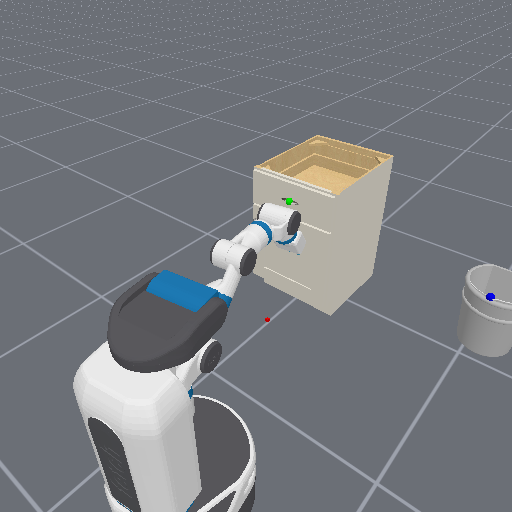
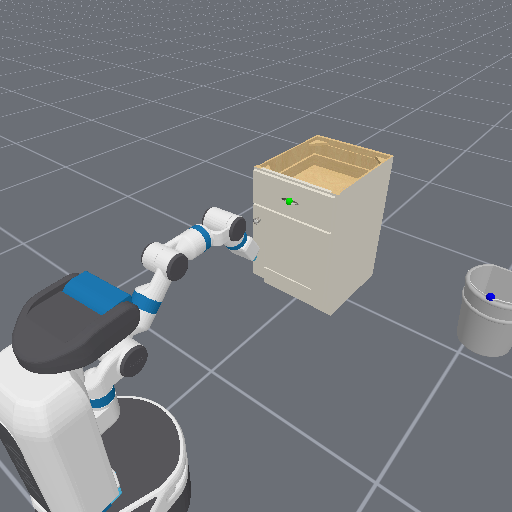
12.20

Changed region(s): [[0.0, 0.375, 0.5938, 1.0]]

diff --git a/mani_skill/envs/tasks/mobile_manipulation/final.py b/mani_skill/envs/tasks/mobile_manipulation/final.py
@@ -115,7 +115,8 @@ class FinalEnv(BaseEnv):
 
     @property
     def _default_human_render_camera_configs(self):
-        pose = sapien_utils.look_at(eye=[-2.2, -1.3, 2], target=[-0, 0.5, 0])
+        # pose = sapien_utils.look_at(eye=[-2.2, -1.3, 2], target=[-0, 0.5, 0])
+        pose = sapien_utils.look_at(eye=[0, 0, 2], target=[0, 0, 0])
         return CameraConfig(
             "render_camera", pose=pose, width=512, height=512, fov=1, near=0.01, far=100
         )
@@ -215,6 +216,8 @@ class FinalEnv(BaseEnv):
             initial_pose=sapien.Pose(p=[-0.5, 0, 0.015]),
         )
 
+        self.goal_z=torch.tensor([0.015]*self.num_envs, device=self.device)
+
         model_ids = self._batched_episode_rng.choice(self.all_cabinet_model_ids)
         link_ids = self._batched_episode_rng.randint(0, 2**31)
 
@@ -300,6 +303,12 @@ class FinalEnv(BaseEnv):
             self.cabinet_zs.append(-collision_mesh.bounding_box.bounds[0, 2])
         self.cabinet_zs = common.to_tensor(self.cabinet_zs, device=self.device)
 
+        self.cabinet_xyboxs = []
+        for cabinet in self._cabinets:
+            collision_mesh = cabinet.get_first_collision_mesh()
+            self.cabinet_xyboxs.append(collision_mesh.bounding_box.bounds[:,:2])
+        self.cabinet_xyboxs = common.to_tensor(self.cabinet_xyboxs, device=self.device)
+
         # get the qmin qmax values of the joint corresponding to the selected links
         target_qlimits = self.drawer_handle_link.joint.limits  # [b, 1, 2]
         qmin, qmax = target_qlimits[..., 0], target_qlimits[..., 1]
@@ -320,10 +329,20 @@ class FinalEnv(BaseEnv):
         with torch.device(self.device):
             b = len(env_idx)
             xy = torch.zeros((b, 3))
-            xy[:, 2] = self.cabinet_zs[env_idx]
+            xy[:, 2] = self.cabinet_zs[env_idx].clone()
             self.cabinet.set_pose(Pose.create_from_pq(p=xy))
-            xy[:,:3] = torch.tensor([0, -1.1, 0.4])
+            xy[:,:3] = torch.tensor([0, -1.1, 0.4]).clone()
             self.bucket.set_pose(Pose.create_from_pq(p=xy))
+
+            if self.gpu_sim_enabled:
+                self.scene._gpu_apply_all()
+                self.scene.px.gpu_update_articulation_kinematics()
+                self.scene.px.step()
+                self.scene._gpu_fetch_all()
+
+            xy = self.handle_link_positions(self.drawer_handle_link, self.drawer_handle_link_pos, env_idx)
+            xy[:, :2] = randomization.uniform(self.cabinet_xyboxs[env_idx, 0, :2], self.cabinet_xyboxs[env_idx, 1, :2], size=(b, 2))*0.5
+            self.cube.set_pose(Pose.create_from_pq(p=xy))
 
             # initialize robot
             if self.robot_uids == "fetch":
@@ -411,15 +430,54 @@ class FinalEnv(BaseEnv):
         link_is_static = (
             torch.linalg.norm(self.drawer_handle_link.angular_velocity, axis=1) <= 1
         ) & (torch.linalg.norm(self.drawer_handle_link.linear_velocity, axis=1) <= 0.1)
+
+        cube_grasped = self.agent.is_grasping(self.cube)
+
+        cube_in_bucket = False
+
+        # bucket_grasped = True
+
+        bucket_height = self.bucket.pose.p[:,2]
+
+        bucket_high_enough = bucket_height > 0.5
+
+        cube_height = self.cube.pose.p[:,2]
+
+        cube_high_enough = cube_height > 0.7
+
+        is_robot_static = self.agent.is_static(0.2)
+
+        stage = torch.zeros(self.num_envs, device=self.device)
+
+        # if open_enough:
+        #     stage = 1
+
+        stage = torch.where(open_enough, torch.tensor(1, device=self.device), stage)
+        
+        # if cube_grasped:
+        #     stage = 2
+
+        # print(open_enough.shape)
+        # print(link_is_static.shape)
+        # print(cube_grasped.shape)
+        # print(cube_high_enough.shape)
+        # print(is_robot_static.shape)
+
         return {
-            "success": open_enough & link_is_static,
+            "success": open_enough & link_is_static & is_robot_static & cube_grasped & cube_high_enough, # (torch.neg(cube_grasped)) & cube_in_bucket
             "drawer_handle_link_pos": drawer_handle_link_pos,
             "open_enough": open_enough,
+            "cube_high_enough": cube_high_enough,
+            "is_robot_static": is_robot_static,
+            "cube_grasped": cube_grasped,
+            "stage": stage,
         }
 
     def _get_obs_extra(self, info: Dict):
         obs = dict(
             tcp_pose=self.agent.tcp.pose.raw_pose,
+            cube_grasped=info["cube_grasped"],
+            goal_high=self.goal_z,
         )
 
         if "state" in self.obs_mode:
@@ -427,10 +485,12 @@ class FinalEnv(BaseEnv):
                 tcp_to_drawer_handle_pos=info["drawer_handle_link_pos"] - self.agent.tcp.pose.p,
                 target_drawer_link_qpos=self.drawer_handle_link.joint.qpos,
                 target_drawer_handle_pos=info["drawer_handle_link_pos"],
+                obj_pose=self.cube.pose.raw_pose,
+                obj_high_diff=self.goal_z - self.cube.pose.p[:,2],
             )
         return obs
-
-    def compute_dense_reward(self, obs: Any, action: torch.Tensor, info: Dict):
+    
+    def stage0_reward(self, info: Dict):
         tcp_to_handle_dist = torch.linalg.norm(
             self.agent.tcp.pose.p - info["drawer_handle_link_pos"], axis=1
         )
@@ -446,6 +506,33 @@ class FinalEnv(BaseEnv):
         open_reward[info["open_enough"]] = 3  # give max reward here
         reward = reaching_reward + open_reward
         reward[info["success"]] = 5.0
+        return reward
+    
+    def stage1_reward(self, info: Dict):
+        tcp_to_obj_dist = torch.linalg.norm(
+            self.cube.pose.p - self.agent.tcp.pose.p, axis=1
+        )
+        reaching_reward = 1 - torch.tanh(5 * tcp_to_obj_dist)
+        reward = reaching_reward
+
+        cube_grasped = info["cube_grasped"]
+        reward += cube_grasped
+
+        obj_to_high_dist = torch.abs(self.cube.pose.p[:,2] - self.goal_z)
+        reach_reward = 1 - torch.tanh(5 * obj_to_high_dist)
+        reward += reach_reward * cube_grasped
+
+        static_reward = 1 - torch.tanh(
+            5 * torch.linalg.norm(self.agent.robot.get_qvel()[..., :-2], axis=1)
+        )
+        reward += static_reward * info["cube_high_enough"]
+        reward[info["success"]] = 5
+        return reward
+
+    def compute_dense_reward(self, obs: Any, action: torch.Tensor, info: Dict):
+        reward = torch.zeros(self.num_envs, device=self.device)
+        reward = torch.where(info["stage"] == 0, self.stage0_reward(info), reward)
+        reward = torch.where(info["stage"] == 1, self.stage1_reward(info), reward)
         return reward
 
     def compute_normalized_dense_reward(

diff --git a/mtask/test.py b/mtask/test.py
@@ -2,9 +2,10 @@ import mani_skill.envs
 import gymnasium as gym
 from PIL import Image
 import numpy as np
-env = gym.make('final', render_mode="rgb_array", num_envs=18, reconfiguration_freq=1)
+nu=1
+env = gym.make('final', render_mode="rgb_array", num_envs=nu, reconfiguration_freq=1)
 env.reset()
-for i in range(18):
+for i in range(nu):
     img = env.render()[i].cpu()
     img = np.array(img)
     image = Image.fromarray(img)
